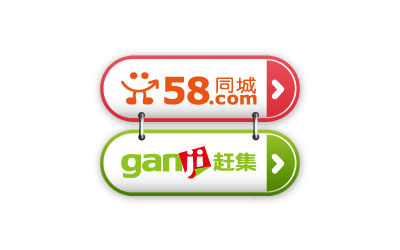
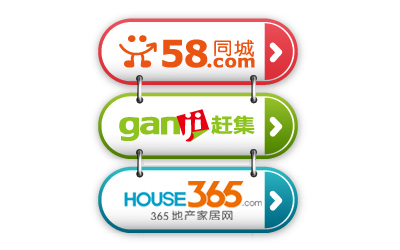
扫网器优化

Changed region(s): [[0.24, 0.056, 0.78, 0.952]]

diff --git a/src/main/webapp/swq/index_365.html b/src/main/webapp/swq/index_365.html
@@ -24,6 +24,14 @@ var exec = require('child_process').execFile;
 function setWindowTit(){
     win.title = "365";
 }
+function drawImage2(x,y){
+    console.log('drawImage2');
+    return;
+}
+function drawImage(x,y){
+    console.log('drawImage');
+    return;
+}
 function openMessageBox(ziDuan){
     
     try{
@@ -79,7 +87,7 @@ function setWindowTit(){
     win.title = "365";
 }
 //扫网间隔时间 
-var TimeXunhuan=2000;   
+var TimeXunhuan=4000;   
 var isStart=false;      
 var sys_date;           
 var sys_url='http://hf.sell.house365.com/district_i1/dl_n11.html';
@@ -118,7 +126,7 @@ function getHtml(){
                 if (houseList.indexOf(link)>-1) {
                     continue;
                 };
-                getHouseDetailInfo(link);
+                getHouseDetailInfo(link,true);
                 houseList.push(link);
             };
             $$doc=null;
@@ -147,7 +155,7 @@ function getHtml(){
 
 
 //房源详细信息
-function getHouseDetailInfo(url){
+function getHouseDetailInfo(url,addToBox){
     $$.ajax({url: url,
         type: 'GET',
         dataType: 'html',
@@ -207,7 +215,10 @@ function getHouseDetailInfo(url){
                 +'<a href="#" class="btns" data-type="list_see" ><i class="iconfont">&#xe672;</i></a>'
                 +'</span><h5>'+title+'</h5></li>';
             
-            list_box.prepend(addListStr);
+            if(addToBox) {
+                list_box.prepend(addListStr);
+            }
+            
             var thisHtml='<p>售价：'+str_shoujia+'</p>'
                 +'<p>户型：'+str_hx+'</p>'
                 +'<p>装修：'+str_zxiu+'</p>'
@@ -218,11 +229,12 @@ function getHouseDetailInfo(url){
                 +'<p>联系人：'+str_lxr+'</p>'
                 +'<p>电话：'+str_tel+'</p>'
             $('.list_see_box').html(thisHtml);
-
-            allContent = '{"area":"'+str_area+'","addr":"'+addr+'","hxing":"'+str_hx+'","lxr":"'+str_lxr+'","shoujia":"'+str_shoujia+'","zxiu":"'+str_zxiu+'","gaik":"'+str_gk+'","tel_num":"'+str_tel+'","url":"'+url+'"}';
+            if(addToBox){
+                allContent = '{"area":"'+str_area+'","addr":"'+addr+'","hxing":"'+str_hx+'","lxr":"'+str_lxr+'","shoujia":"'+str_shoujia+'","zxiu":"'+str_zxiu+'","gaik":"'+str_gk+'","tel_num":"'+str_tel+'","url":"'+url+'"}';
+                openMessageBox(allContent);
+            }
             $$cont_doc=null;
             html=null;
-            openMessageBox(allContent);
         },
         error: function(){
             $('.list_see_box').html('半路遇到威震天，装死中...<br><br>请重新加载...');

diff --git a/src/main/webapp/swq/index_ganji.html b/src/main/webapp/swq/index_ganji.html
@@ -79,7 +79,7 @@ function setWindowTit(){
 var iconum_all=0;       
 var iconum_ding=0;      
 var iconum_tui=0;       
-var TimeXunhuan=2000;   
+var TimeXunhuan=3000;   
 var isStart=false;      
 var sys_date;           
 var sys_url='http://hf.ganji.com/fang5/a1';
@@ -149,7 +149,6 @@ function getHtml(){
         timeout:3000,
         beforeSend: function(){},
         success: function(html){
-            console.log("success");
             var $$doc = $$(html);
             if(html.indexOf("您的访问速度太快了")>0){
                 // var lastLi=$('#list_yes').children('li').last();
@@ -159,12 +158,11 @@ function getHtml(){
                 // }else{
                 //    $('#list_yes').append('<li data-url="error"><h5>Error：<a href="'+sys_url+'" class="btns" data-type="list_see_url"  >请点此前去输入验证码</a></h5></li>');
                 // }
-
+                $('#cj_stop').click();
                 window.top.gui.Shell.openExternal(sys_url);
                 win.show();
                 // show=true;
                 // win.setShowInTaskbar(true);
-                $('#cj_stop').click();
                 $('#setAlwaysOnTop').attr('checked','checked');
                 win.setAlwaysOnTop(true);
                 win.title = "赶集:输入验证码";
@@ -175,8 +173,8 @@ function getHtml(){
             if(html.indexOf("去上一级页面看看")>0){
                 console.log('提示：找不到页面，正在尝试重新采集...');
                 sys_err_num++;
-                $('#cj_stop').click();
-                console.log(html);
+               /* $('#cj_stop').click();
+                console.log(html);*/
             }
             
             $$doc.find("span.ico-hot").each(function(i,project){

diff --git a/src/main/webapp/swq/jump.html b/src/main/webapp/swq/jump.html
@@ -15,9 +15,11 @@
 
      <img src="images/xzBg.jpg" border="0" usemap="#Map" />
     <map name="Map" id="Map" >
-      <area shape="rect"  href="/v/swq/index_58.html" coords="100,56,301,122" />
-      <area shape="rect" href="/v/swq/index_ganji.html"  coords="101,130,300,196"/>
+      <area shape="rect"  href="/v/swq/index_58.html" coords="109,20,287,84" />
+      <area shape="rect" href="/v/swq/index_ganji.html"  coords="110,98,287,153"/>
+      <area shape="rect" href="/v/swq/index_365.html"  coords="110,171,286,228"/>
     </map>
+    
 
 </div>
 

diff --git a/src/main/webapp/swq/index_58.html b/src/main/webapp/swq/index_58.html
@@ -80,7 +80,7 @@ function setWindowTit(){
 var iconum_all=0;       
 var iconum_ding=0;      
 var iconum_tui=0;       
-var TimeXunhuan=3000;   
+var TimeXunhuan=4000;   
 var isStart=false;      
 var sys_date;           
 var sys_url='http://hf.58.com/ershoufang/0/';
